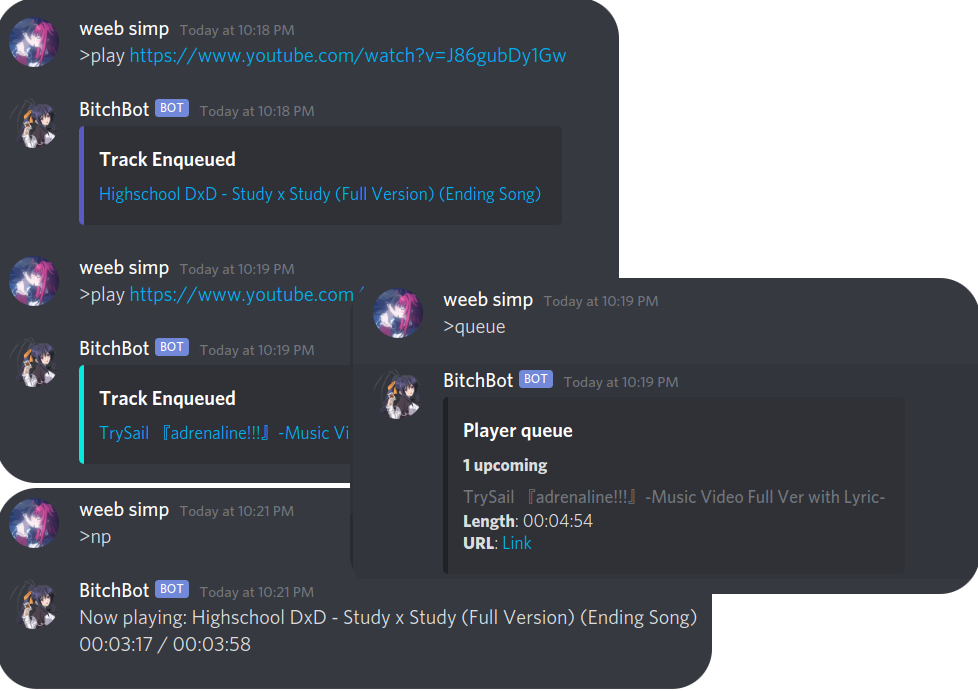
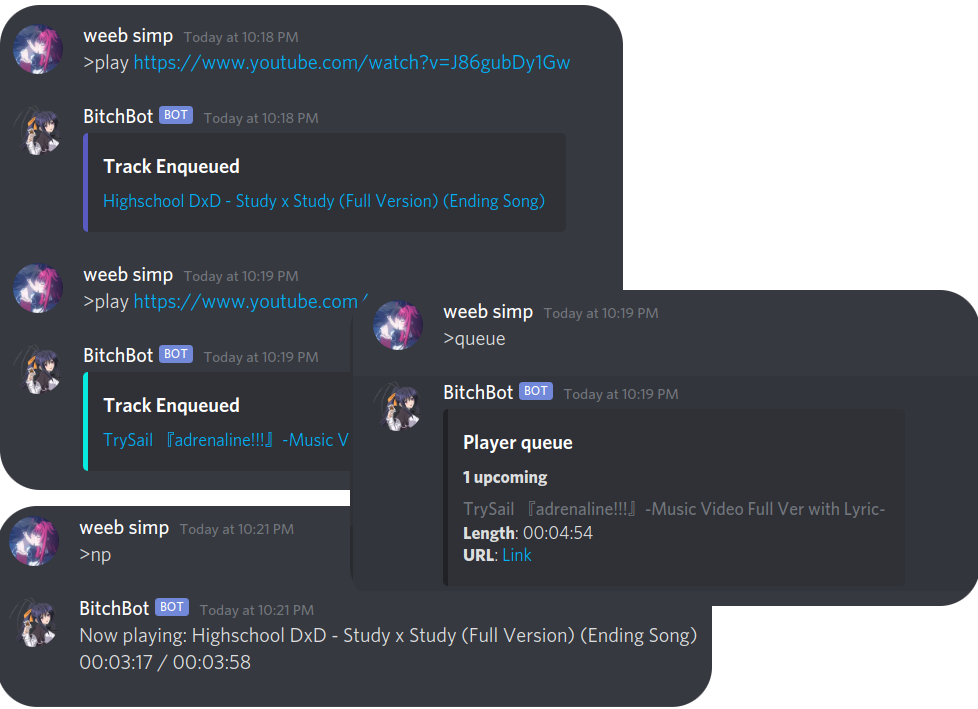
UI improvements

diff --git a/web/frontend/src/app/components/home/home.component.ts b/web/frontend/src/app/components/home/home.component.ts
@@ -1,5 +1,5 @@
 import {Component, Inject, OnInit} from '@angular/core';
-import {Router} from "@angular/router";
+import {Router, RouterEvent} from "@angular/router";
 import {DOCUMENT} from '@angular/common';
 import {UserService} from "../../services/user/user.service";
 import {Stats} from "../../models/Stats";
@@ -21,6 +21,8 @@ export class HomeComponent implements OnInit {
     BOD_URL           = 'https://bots.ondiscord.xyz/bots/595363392886145046'
     INVITE_URL = HomeComponent.INVITE_URL // So it can be used in template
 
+    isIframe = false
+
     stats: Stats =  {
         uptime: {minutes: 0, seconds: 0, hours: 0, days: 0, human_friendly: '', total_seconds: '0'},
         commands: 0,
@@ -32,8 +34,14 @@ export class HomeComponent implements OnInit {
     constructor(
         private router: Router,
         @Inject(DOCUMENT) private document: Document,
-        private userService: UserService
-    ) {}
+        private userService: UserService,
+    ) {
+        this.router.events.subscribe(value => {
+            if (value instanceof RouterEvent) {
+                this.isIframe = value.url.toLowerCase().includes('iframe')
+            }
+        })
+    }
 
     ngOnInit(): void {
         Promise.all([this.userService.fetchMyAvatarUrl(1024), this.userService.fetchMyStats()]).then(resp => {

diff --git a/web/frontend/src/index.html b/web/frontend/src/index.html
@@ -6,7 +6,7 @@
   <base href="/">
   <meta name="viewport" content="width=device-width, initial-scale=1">
   <link id="appFavicon" rel="icon" type="image/x-icon" href="favicon.ico">
-  <link href="https://fonts.googleapis.com/css?family=Roboto:300,400,500&display=swap" rel="stylesheet">
+  <link href="https://fonts.googleapis.com/css?family=Nunito+Sans:300,400,500&display=swap" rel="stylesheet">
   <link href="https://fonts.googleapis.com/icon?family=Material+Icons" rel="stylesheet">
 </head>
 <body class="mat-typography">

diff --git a/web/frontend/src/app/app.component.ts b/web/frontend/src/app/app.component.ts
@@ -21,7 +21,7 @@ export class AppComponent implements OnInit {
     ) {
         this.router.events.subscribe(value => {
             if (value instanceof RouterEvent) {
-                this.hideToolbar = value.url.toLowerCase().includes('hidetoolbar')
+                this.hideToolbar = value.url.toLowerCase().includes('iframe')
                 this.navbarColor = value.url && value.url != '/' ? undefined : 'primary';
             }
         })

diff --git a/web/frontend/src/app/components/home/home.component.scss b/web/frontend/src/app/components/home/home.component.scss
@@ -202,7 +202,7 @@
 
         #links-grid {
             display: grid;
-            grid-template-columns: repeat(6, 4fr);
+            grid-template-columns: repeat(3, 4fr);
             grid-gap: 2rem;
 
             @media (max-width: $query-max-width) {

diff --git a/web/frontend/src/app/components/home/home.component.html b/web/frontend/src/app/components/home/home.component.html
@@ -1,5 +1,5 @@
 <div id="home-container" dir="ltr">
-    <div class="item" id="info">
+    <div class="item" id="info" *ngIf="!isIframe">
         <div id="info-content" class="mat-accent">
 
             <img id="avatar" [src]="avatarUrl" alt="icon">

diff --git a/web/frontend/src/styles.scss b/web/frontend/src/styles.scss
@@ -6,7 +6,7 @@ html, body {
 
 body {
   margin: 0;
-  font-family: Roboto, "Helvetica Neue", sans-serif;
+  font-family: "Nunito Sans", "Helvetica Neue", sans-serif !important;
   background: #191919;
   color: $text-primary
 }
